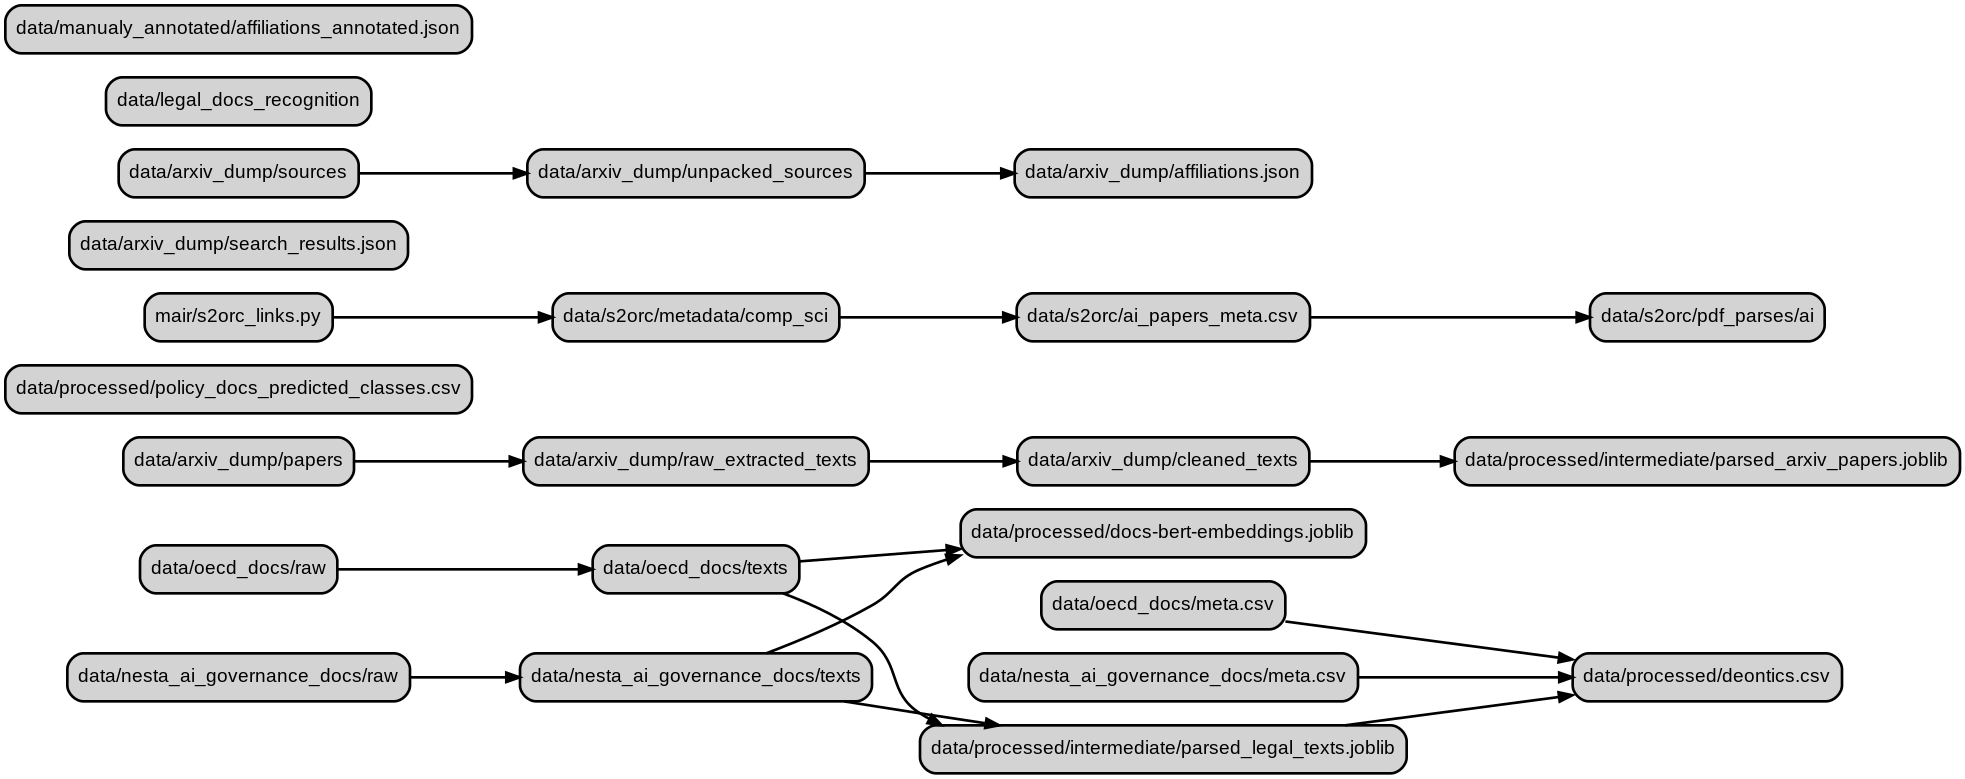
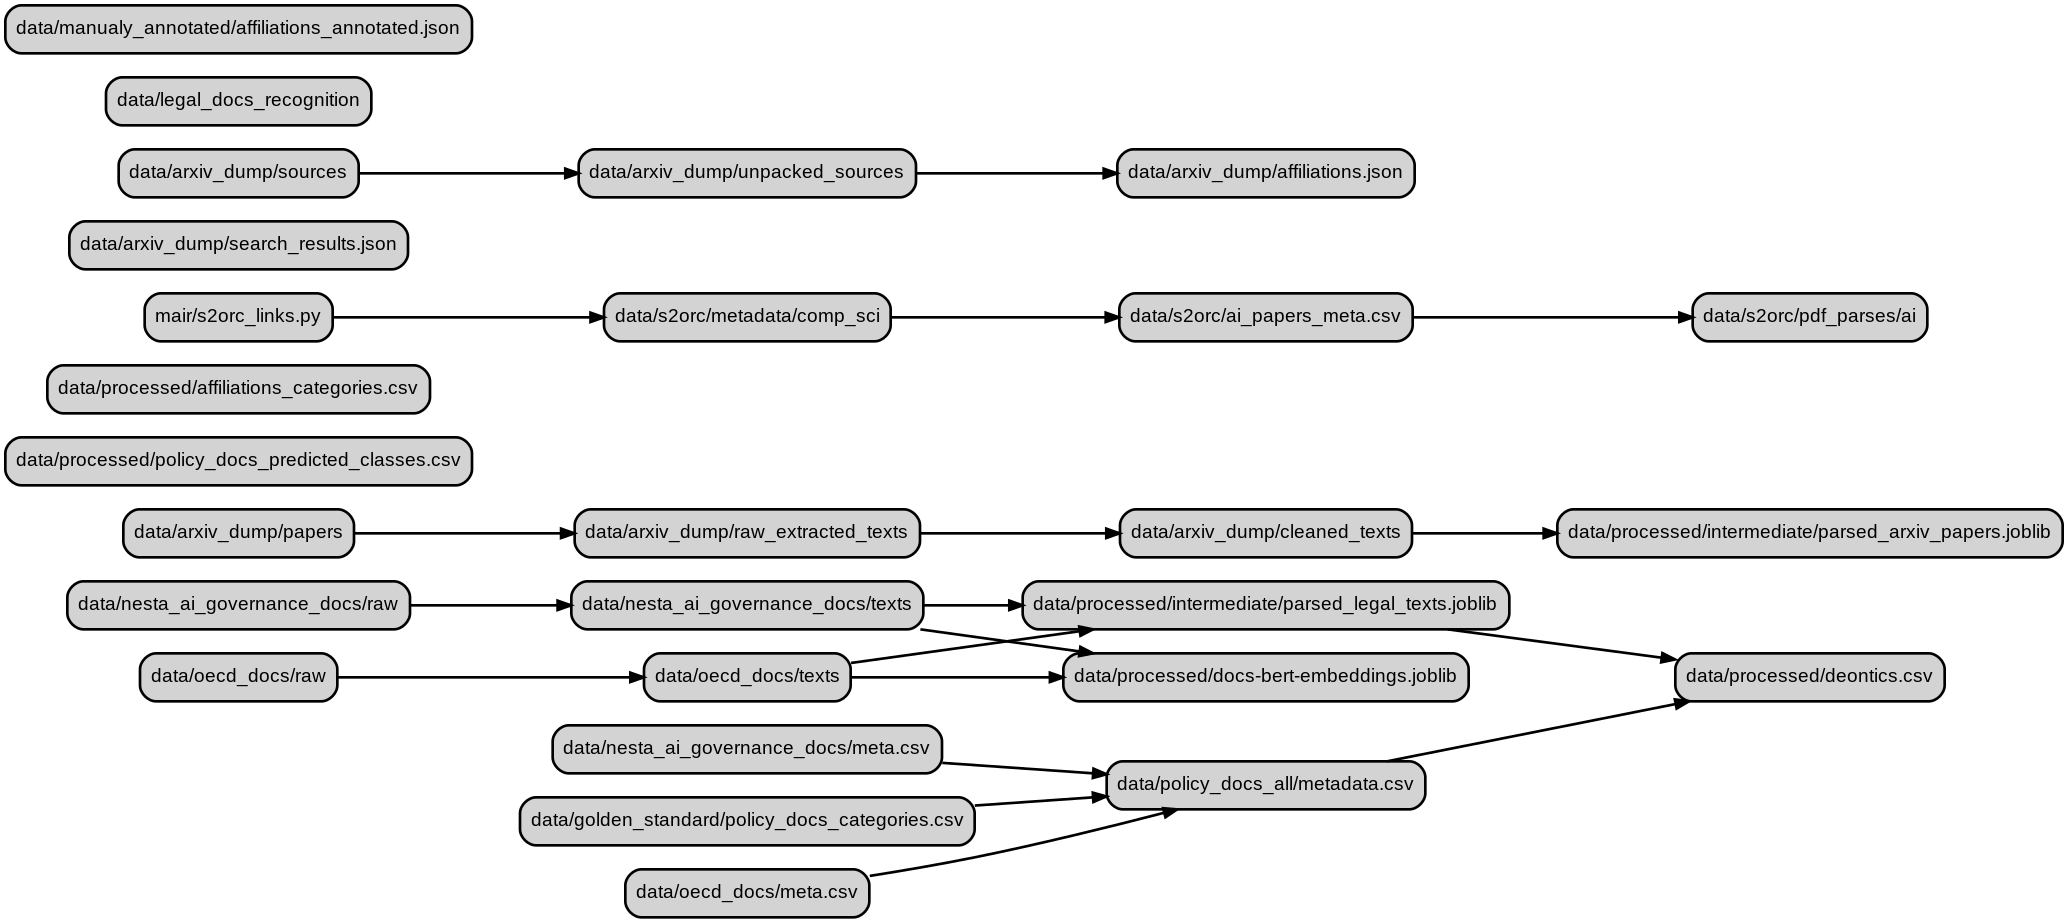
new metadata for deontics

diff --git a/scripts/merge_metadata.py b/scripts/merge_metadata.py
@@ -1,0 +1,49 @@
+import os
+
+import pandas as pd
+from mair.data_loading import load_legal_documents_metadata
+
+IN_ANNOTATION = "data/golden_standard/policy_docs_categories.csv"
+OUT_MERGED_META = "data/policy_docs_all/metadata.csv"
+categories_map = {
+    "A": "diagnosis",
+    "B": "principles",
+    "C": "strategy",
+    "D": "pre-regulation",
+    "E": "regulation",
+    "F": "body",
+}
+
+
+def get_author(s):
+    if type(s) != str:
+        return "other"
+    if ".org" in s:
+        return "organisation"
+    if ".gov" in s:
+        return "government"
+    if ".com" in s:
+        return "company"
+    else:
+        return "other"
+
+
+if __name__ == "__main__":
+    os.makedirs("data/policy_docs_all/", exist_ok=True)
+    df_categories = pd.read_csv(IN_ANNOTATION)
+
+    df_meta = load_legal_documents_metadata()
+
+    df_merged = df_meta.merge(df_categories, on="id", how="left")
+
+    df_merged["documentFunction"] = df_merged["consensusCategory"].map(categories_map)
+    df_merged["author"] = df_merged.documentUrl.apply(get_author)
+    df_merged.loc[
+        (df_merged.country.str.split(",").str.len() > 1)
+        & (df_merged.author == "other"),
+        "author",
+    ] = "international"
+    df_merged.loc[
+        (df_merged.country != "Global") & (df_merged.author == "other"), "author"
+    ] = "government"
+    df_merged.to_csv(OUT_MERGED_META, index=False)

diff --git a/scripts/analyse_deontics_sentences.py b/scripts/analyse_deontics_sentences.py
@@ -1,15 +1,13 @@
 import mair.deontics
 import mair.doc_ids
 import pandas as pd
-from mair.data_loading import load_legal_documents_metadata, load_parsed_legal_documents
+from mair.data_loading import load_parsed_legal_documents
 
-# INPUTS:   "data/nesta_ai_governance_docs/meta.csv"
-#           "data/oecd_docs/meta.csv"
-#           "data/processed/intermediate/parsed_legal_texts.joblib"
-
+# INPUT:   "data/processed/intermediate/parsed_legal_texts.joblib"
+IN_META = "data/policy_docs_all/metadata.csv"
 OUT = "data/processed/deontics.csv"
 if __name__ == "__main__":
-    df_meta = load_legal_documents_metadata()
+    df_meta = pd.read_csv("data/policy_docs_all/metadata.csv")
     parsed_documents = load_parsed_legal_documents()
 
     result_df = mair.deontics.get_deontic_sentences_table(parsed_documents)
@@ -28,7 +26,7 @@ if __name__ == "__main__":
     final_df["isQuestion"] = result_df["isQuestion"]
     final_df["negated"] = result_df["negated"]
 
-    final_df = final_df.merge(df_meta, on="id")
+    final_df = final_df.merge(df_meta, on="id", how="left")
     final_df = final_df.explode("subject")  # convert lists to multiple rows}
 
     final_df.to_csv(OUT, index=False)
